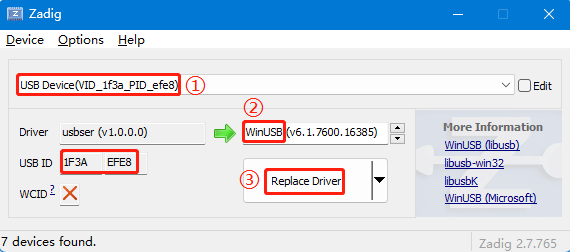
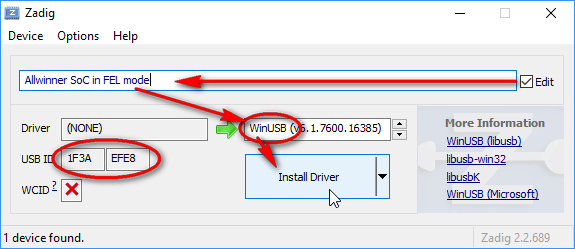
doc: updated documentation to be more clear on what you need to do in order to flash CB1 eMMC version on windows

diff --git a/readme.md b/readme.md
@@ -45,7 +45,7 @@ __NOTE: The CB1 eMMC version can also use the SD card as the OS image source, an
 3. USB driver for windows (Linux skip this step): refer to the official website of [AllWinner](https://linux-sunxi.org/FEL/USBBoot#Using_sunxi-fel_on_Windows)
     * Download [Zadig](https://zadig.akeo.ie/) to the rescue
     * Enable `Options->List All Devices` <br/><img src=Images/zadig_list.png width="500"/><br/>
-    * Select the USB device to install the driver, (The device USB ID must be "1F3A:EFE8"). Click `Replace Driver` after confirming that the information is correct <br/><img src=Images/zadig_driver.png width="500"/><br/>
+    * Select the USB device to install the driver(most likely will be "unknown"). Make sure the device USB ID is "1F3A:EFE8"). Click `Install Driver` after confirming that the information is correct <br/><img src=Images/zadig_driver.png width="500"/><br/>
 4. Open the `Powershell`(windows) or `console terminal`(linux) in the [sunxi-fel](https://github.com/bigtreetech/sunxi-tools) tools path downloaded in step 1.
 5. Run<br/>
     `.\sunxi-fel.exe -v ver` (windows)<br/>
@@ -54,6 +54,9 @@ __NOTE: The CB1 eMMC version can also use the SD card as the OS image source, an
     to check whether the USB of CB1 is connected normally.<br>
     If you get `ERROR: Allwinner USB FEL device not found!` means that the USB is not recognized. Please recheck whether the driver is installed successfully.<br>
     If you get `AWUSBFEX soc=00001823(H616)` means that CB1 eMMC is ready.
+    
+    Here on the first line is an example of error you will see if the driver did not install correctly.
+    On the second line is an example of what it will look like after zadig has installed the driver correctly.
      <br/><img src=Images/fel_ver.png width="1000"/><br/>
 6. Run<br/>
     `.\sunxi-fel.exe uboot .\u-boot-sunxi-cb1-emmc.bin` (windows)<br/>
